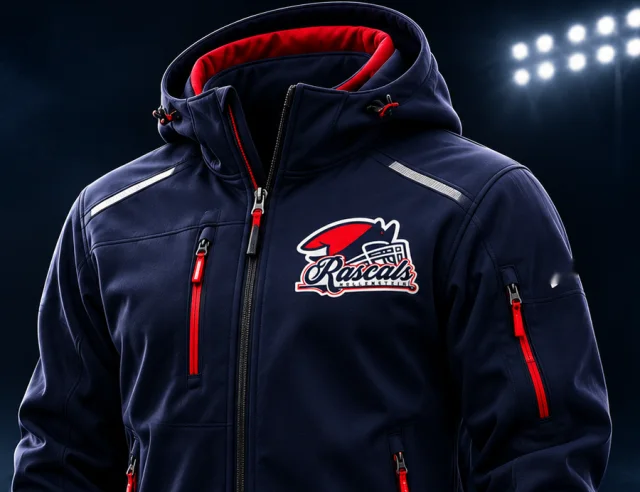
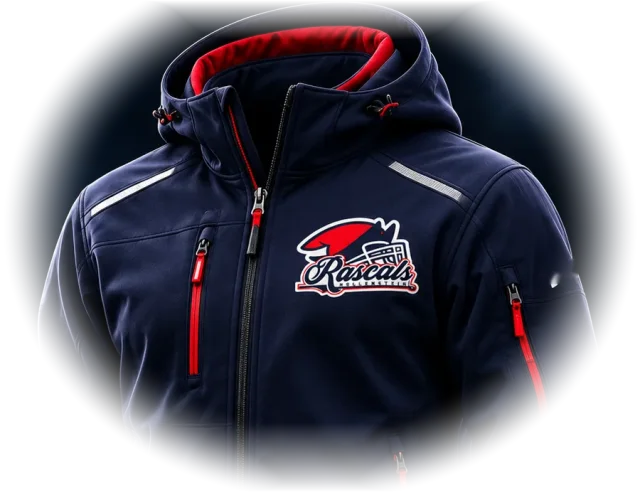
Teamshop: Kachelgrafiken ohne sichtbaren Bildkasten
Die Produktgrafiken laufen jetzt an allen Raendern weich ins Transparente
aus (Alpha im Bild), die Flutlichter in den Bildecken sind herausretuschiert
und die Kachel hat denselben Grundton wie der Bildhintergrund. Dadurch
sieht man keinen eingesetzten Bildrahmen mehr.

Claude-Session: https://claude.ai/code/session_01VkdeDPYWPcbrmHGSxU5d2N

diff --git a/shopify-theme/rascals-teamshop/assets/teamshop.css b/shopify-theme/rascals-teamshop/assets/teamshop.css
@@ -1220,15 +1220,15 @@ body:hover .football-cursor { opacity: .85; }
 .cat-tile--photo .cat-tile__media img { object-fit: cover; object-position: center 62%; }
 .cat-tile--photo .cat-tile__media::after { position: absolute; inset: 0; content: ""; pointer-events: none;
   background: linear-gradient(0deg, rgba(6, 11, 21, .94) 0%, rgba(6, 11, 21, .62) 24%, rgba(6, 11, 21, 0) 48%); }
-.cat-tile--photo .cat-tile__skew { background: radial-gradient(ellipse 70% 80% at 50% 35%, #142034, #0b1424 70%); }
+.cat-tile--photo .cat-tile__skew { background: #090f18; }
+/* Die Grafiken laufen an den Raendern ins Transparente aus und tragen
+   denselben Grundton wie die Kachel: kein sichtbarer Bildkasten. */
 /* Auf dem Desktop ist die Kachel breit und flach: das ganze Motiv zeigen
    statt hineinzuzoomen, sonst bleibt vom T-Shirt nur das Logo. Der Rand der
    Grafiken ist dasselbe dunkle Blau wie die Kachel, es entsteht keine Kante. */
 @media (min-width: 761px) {
   .cat-tile--photo .cat-tile__media { inset: 0 2% 12%; }
-  .cat-tile--photo .cat-tile__media img { object-fit: contain; object-position: center top;
-    -webkit-mask-image: radial-gradient(ellipse 62% 78% at 50% 42%, #000 62%, transparent 100%);
-            mask-image: radial-gradient(ellipse 62% 78% at 50% 42%, #000 62%, transparent 100%); }
+  .cat-tile--photo .cat-tile__media img { object-fit: contain; object-position: center top; }
   .cat-tile--photo .cat-tile__media::after { background: none; }
   .cat-tile--photo .cat-tile__skew::before { position: absolute; inset: auto 0 0; height: 46%; content: ""; z-index: 1; pointer-events: none;
     background: linear-gradient(0deg, rgba(6, 11, 21, .9) 0%, rgba(6, 11, 21, 0) 100%); }
